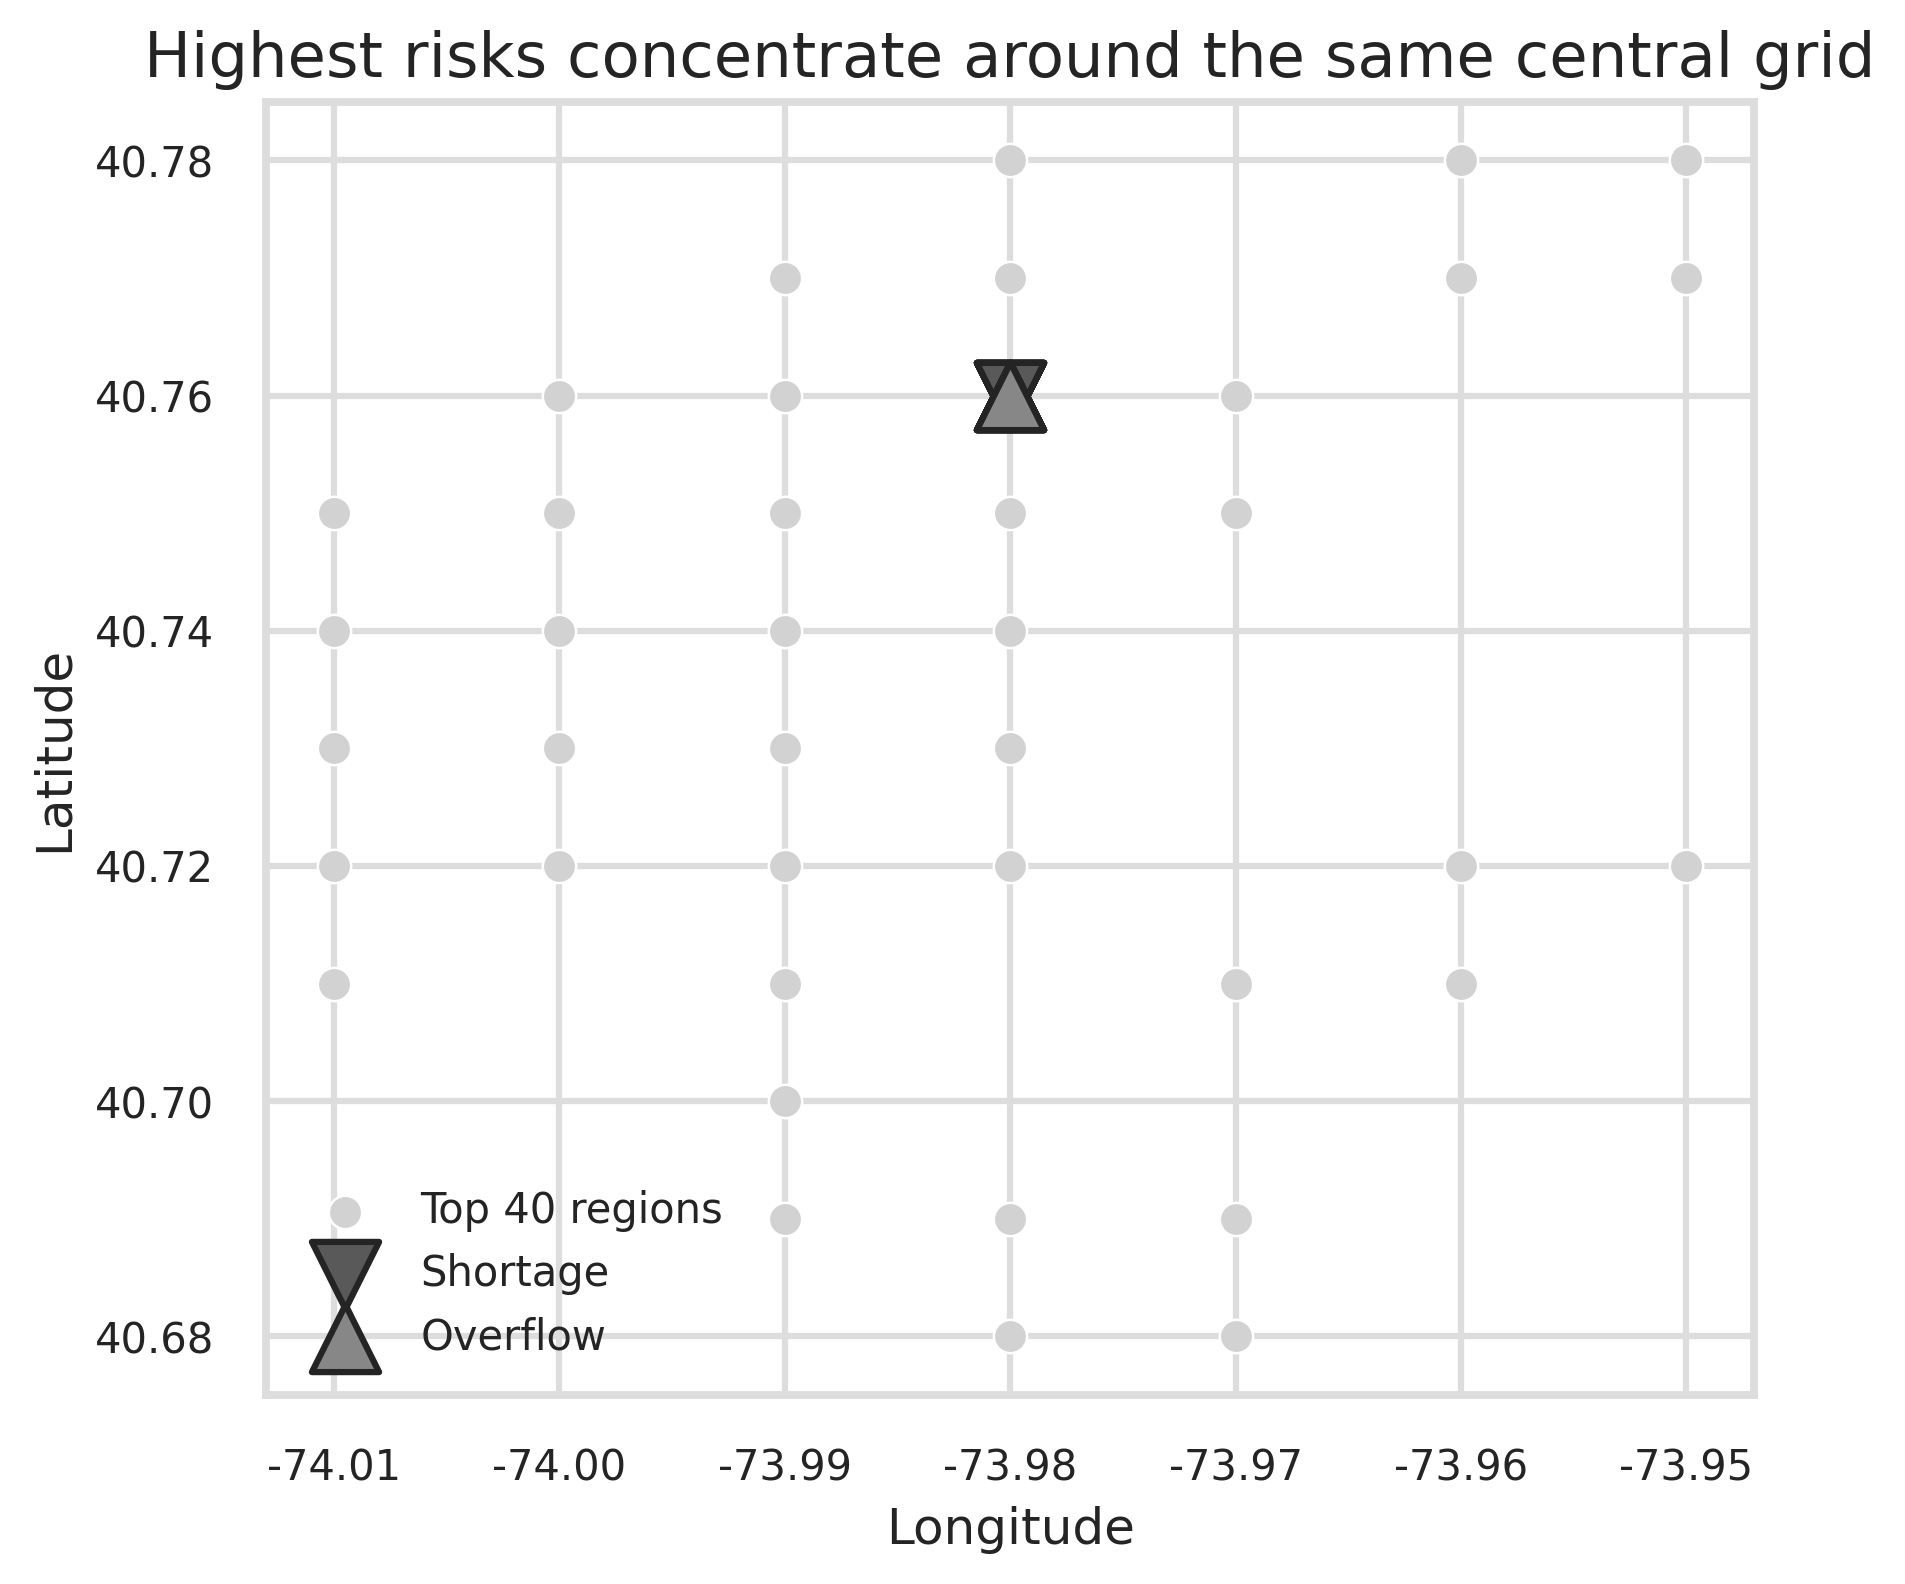
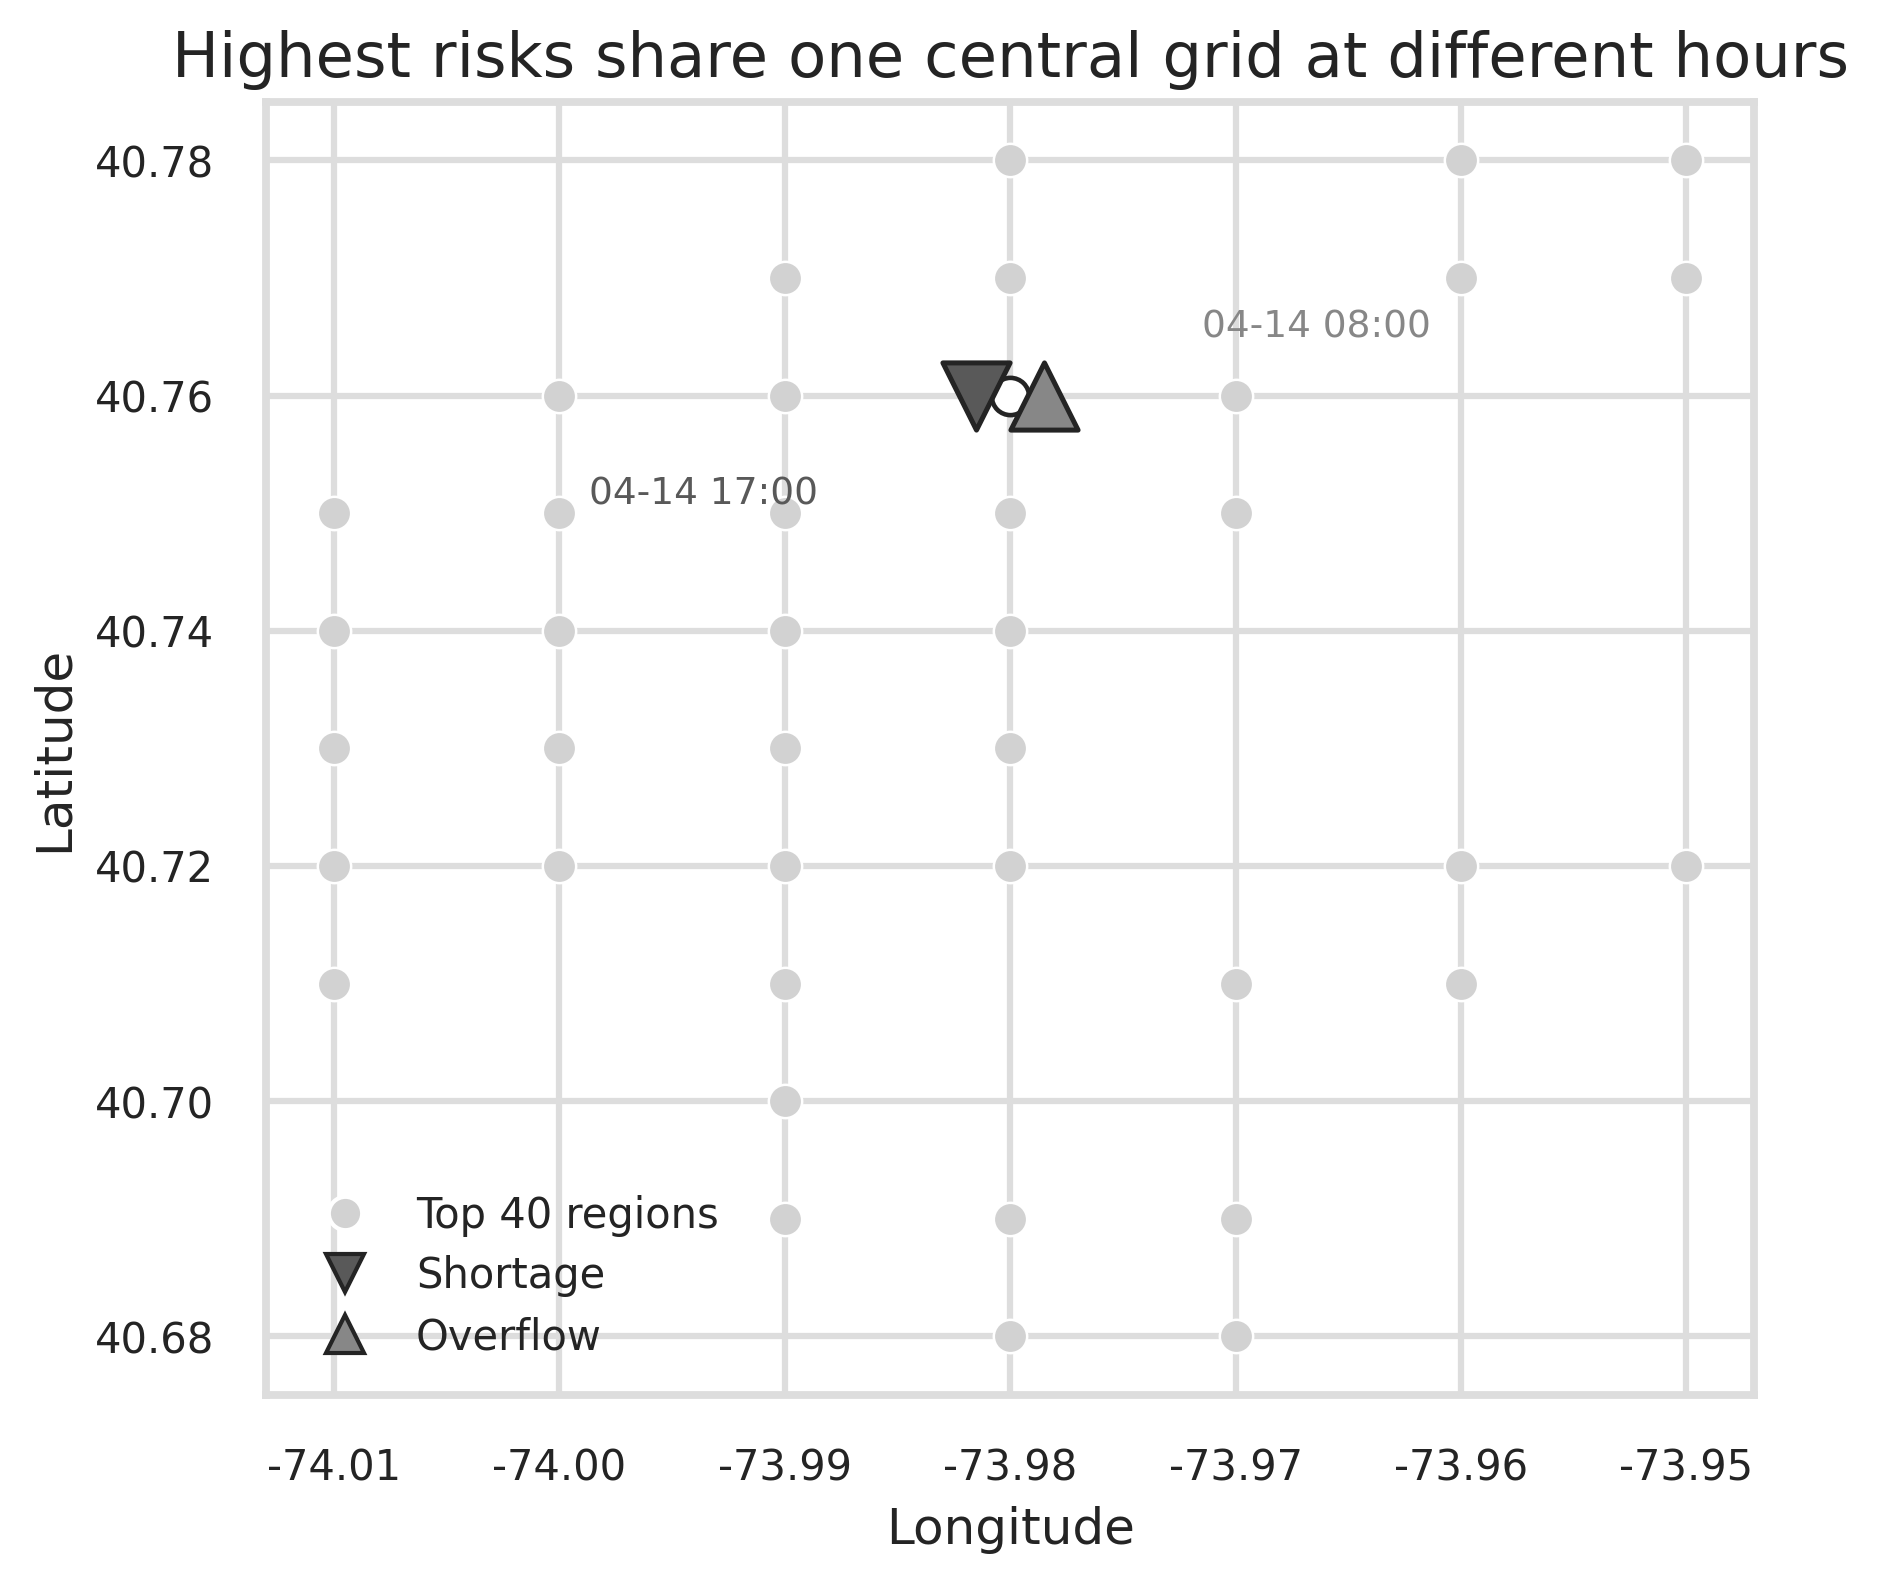
Fix overlapping risk markers in presentation figure

diff --git a/make_stgcn_presentation_report.py b/make_stgcn_presentation_report.py
@@ -13,6 +13,7 @@ import matplotlib
 matplotlib.use("Agg")
 
 import matplotlib.pyplot as plt
+from matplotlib.lines import Line2D
 import numpy as np
 import pandas as pd
 import seaborn as sns
@@ -284,8 +285,10 @@ def risk_bars(risk: pd.DataFrame, congestion: pd.DataFrame) -> None:
 
 
 def risk_locations(risk: pd.DataFrame, congestion: pd.DataFrame, region_map: pd.DataFrame) -> None:
-    shortage = risk[risk["risk_type"].eq("shortage_risk")].nlargest(8, "dispatch_priority")
-    overflow = congestion.nlargest(8, "congestion_score")
+    shortage = risk[risk["risk_type"].eq("shortage_risk")].nlargest(1, "dispatch_priority").copy()
+    overflow = congestion.nlargest(1, "congestion_score").copy()
+    shortage["datetime"] = pd.to_datetime(shortage["datetime"])
+    overflow["datetime"] = pd.to_datetime(overflow["datetime"])
     fig, ax = plt.subplots(figsize=(6.4, 5.6))
     ax.scatter(
         region_map["grid_center_lng"],
@@ -296,12 +299,45 @@ def risk_locations(risk: pd.DataFrame, congestion: pd.DataFrame, region_map: pd.
         linewidth=0.6,
         label="Top 40 regions",
     )
-    ax.scatter(shortage["grid_center_lng"], shortage["grid_center_lat"], s=260, marker="v", color=COLORS["blue"], edgecolor=COLORS["ink"], label="Shortage")
-    ax.scatter(overflow["grid_center_lng"], overflow["grid_center_lat"], s=260, marker="^", color=COLORS["orange"], edgecolor=COLORS["ink"], label="Overflow")
-    ax.set_title("Highest risks concentrate around the same central grid")
+    base_lng = float(shortage["grid_center_lng"].iloc[0])
+    base_lat = float(shortage["grid_center_lat"].iloc[0])
+    marker_offset = 0.0015
+    shortage_lng = float(shortage["grid_center_lng"].iloc[0]) - marker_offset
+    overflow_lng = float(overflow["grid_center_lng"].iloc[0]) + marker_offset
+    shortage_lat = float(shortage["grid_center_lat"].iloc[0])
+    overflow_lat = float(overflow["grid_center_lat"].iloc[0])
+    ax.plot([base_lng, shortage_lng], [base_lat, shortage_lat], color=COLORS["blue"], linewidth=1.2, alpha=0.8)
+    ax.plot([base_lng, overflow_lng], [base_lat, overflow_lat], color=COLORS["orange"], linewidth=1.2, alpha=0.8)
+    ax.scatter([base_lng], [base_lat], s=80, marker="o", facecolor="white", edgecolor=COLORS["ink"], linewidth=1.1, zorder=4)
+    ax.scatter([shortage_lng], [shortage_lat], s=260, marker="v", color=COLORS["blue"], edgecolor=COLORS["ink"], linewidth=1.2, label="Shortage", zorder=5)
+    ax.scatter([overflow_lng], [overflow_lat], s=260, marker="^", color=COLORS["orange"], edgecolor=COLORS["ink"], linewidth=1.2, label="Overflow", zorder=5)
+    ax.annotate(
+        shortage["datetime"].dt.strftime("%m-%d %H:%M").iloc[0],
+        (shortage_lng, shortage_lat),
+        xytext=(-38, -26),
+        textcoords="offset points",
+        fontsize=9,
+        color=COLORS["blue"],
+        ha="right",
+    )
+    ax.annotate(
+        overflow["datetime"].dt.strftime("%m-%d %H:%M").iloc[0],
+        (overflow_lng, overflow_lat),
+        xytext=(38, 14),
+        textcoords="offset points",
+        fontsize=9,
+        color=COLORS["orange"],
+        ha="left",
+    )
+    ax.set_title("Highest risks share one central grid at different hours")
+    legend_handles = [
+        Line2D([0], [0], marker="o", color="none", markerfacecolor="#c8d4df", markeredgecolor="white", markersize=8, label="Top 40 regions"),
+        Line2D([0], [0], marker="v", color="none", markerfacecolor=COLORS["blue"], markeredgecolor=COLORS["ink"], markersize=9, label="Shortage"),
+        Line2D([0], [0], marker="^", color="none", markerfacecolor=COLORS["orange"], markeredgecolor=COLORS["ink"], markersize=9, label="Overflow"),
+    ]
     ax.set_xlabel("Longitude")
     ax.set_ylabel("Latitude")
-    ax.legend(frameon=False, loc="lower left")
+    ax.legend(handles=legend_handles, frameon=False, loc="lower left", labelspacing=0.45, handletextpad=0.7)
     save_figure(fig, "ppt_fig_10_risk_locations", (6.4, 5.6))
 
 